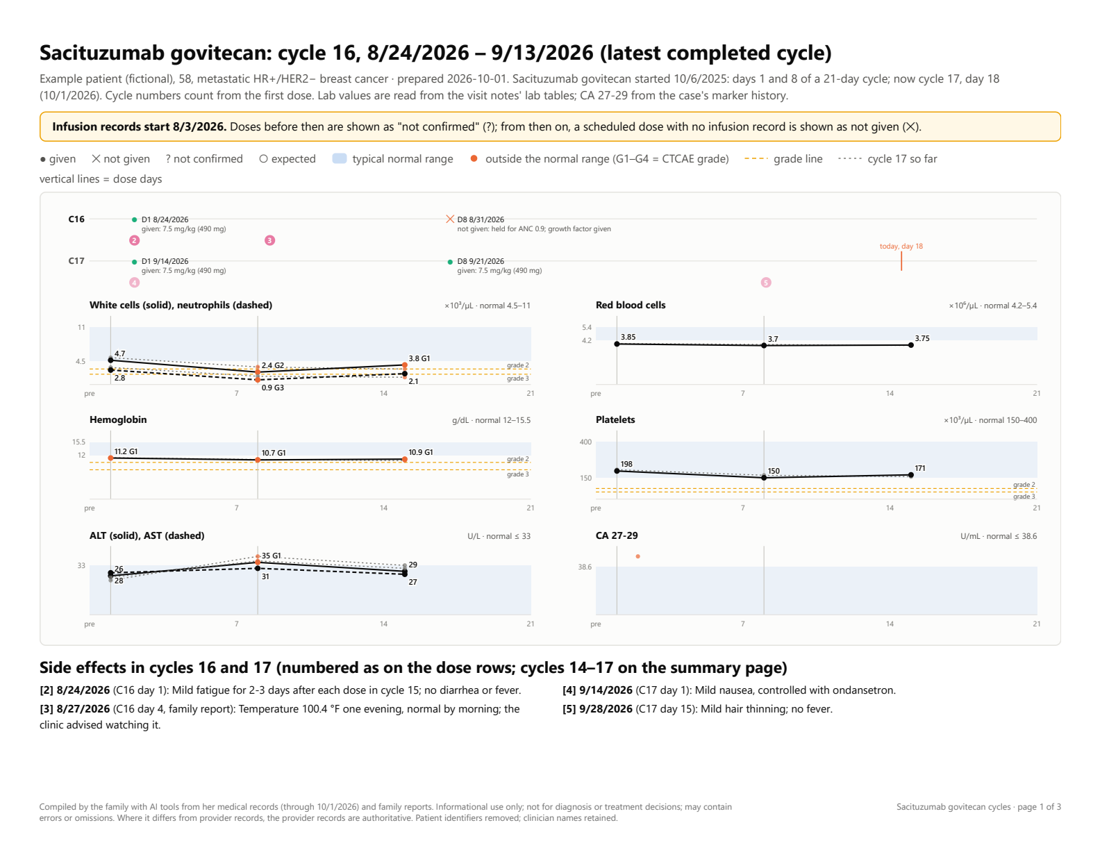
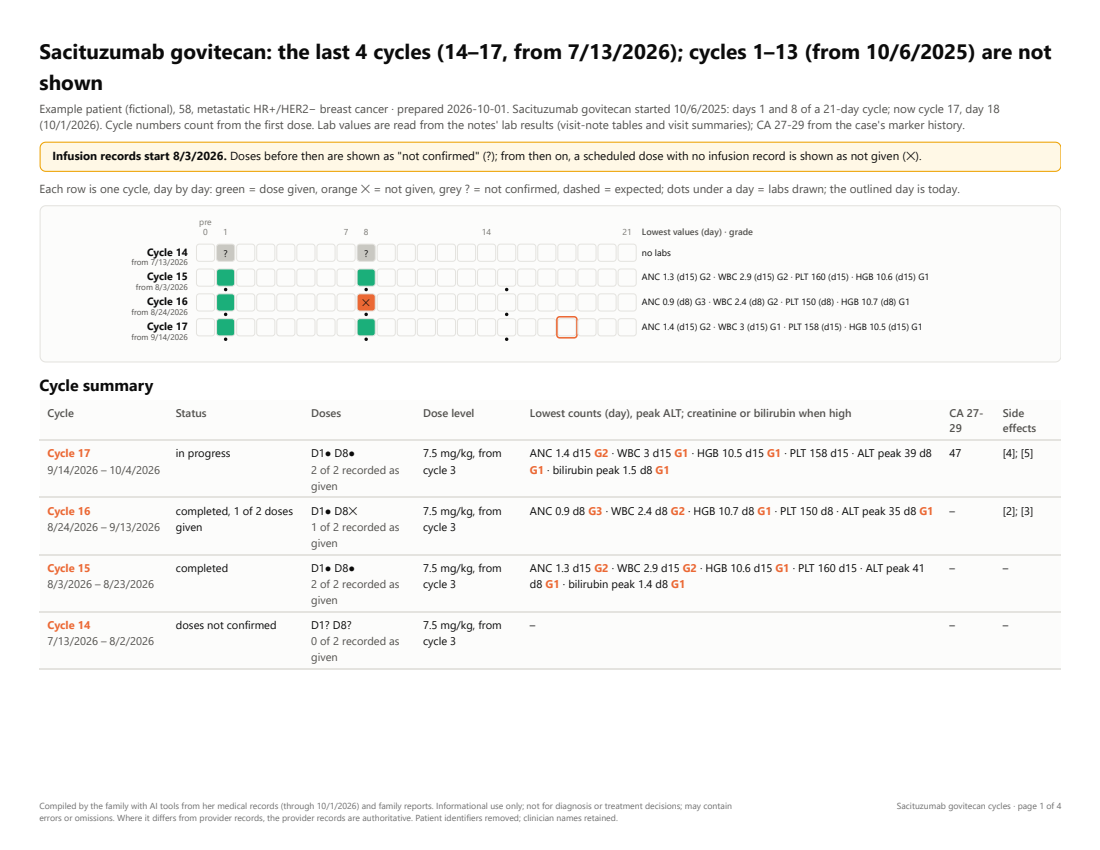
Cycles report: lead with the cycle overview; chart kidney, liver and nutrition tests
Page 1 is now the tracked cycles day by day with the cycle summary; the latest
completed cycle's detail follows. New tests: creatinine and total bilirubin
(CTCAE grades by multiples of the upper limit), albumin, calcium and MCV, the
last three charted around their normal range. Out-of-range values are marked
even without a CTCAE grade; the summary names creatinine or bilirubin only when
high. The example notes gain fictional chemistry; gallery images regenerated.

diff --git a/reports/cycles.py b/reports/cycles.py
@@ -31,10 +31,22 @@ TESTS = {
     "PLT": ("Platelets", "×10³/µL", 150, 400, ("low", 75, 50, 25), r"PLT\b", r"x 10\^3/uL"),
     "ALT": ("ALT (liver)", "U/L", 0, 33, ("x", 3, 5, 20), r"ALT/SGPT", r"U/L"),
     "AST": ("AST (liver)", "U/L", 0, 32, ("x", 3, 5, 20), r"AST/SGOT", r"U/L"),
+    # chemistry: kidney (a rare thrombotic microangiopathy on some chemotherapy shows first as rising creatinine with
+    # falling platelets; bone-strengthening infusions are dosed by kidney function), liver, nutrition, bone. Urine and
+    # ionized values are left out.
+    "CREAT": ("Creatinine (kidney)", "mg/dL", 0, 1.1, ("x", 1.5, 3, 6), r"Creatinine\b(?!,? *(?:urine|ur\b|random))", r"mg/dL"),
+    "BILI": ("Bilirubin, total (liver)", "mg/dL", 0, 1.2, ("x", 1.5, 3, 10),
+             r"(?:Bilirubin,? total|Total bilirubin|T\.? ?Bili(?:rubin)?\b)", r"mg/dL"),
+    "ALB": ("Albumin (nutrition)", "g/dL", 3.5, 5.2, ("low", 3.0, 2.0, None), r"Albumin\b(?!,? *urine)", r"g/dL"),
+    "CALC": ("Calcium", "mg/dL", 8.6, 10.3, None, r"Calcium\b(?!,? *ion)", r"mg/dL"),
+    "MCV": ("Red-cell size (MCV)", "fL", 80, 100, None, r"MCV\b", r"fL"),
 }
 for _k, _v in C.get("cycles_tests", {}).items():
     TESTS[_k] = tuple(_v[i] if i < len(_v) and _v[i] is not None else (TESTS.get(_k) or (None,) * 7)[i] for i in range(7))
-PANELS = [["WBC", "ANC"], ["RBC"], ["HGB"], ["PLT"], ["ALT", "AST"]]
+PANELS = [["WBC", "ANC"], ["PLT"], ["HGB"], ["ALB"], ["ALT", "AST"], ["BILI"], ["CREAT"]]   # page 2; the marker panel follows
+OVERLAYS = ["ANC", "WBC", "PLT", "HGB", "ALT", "BILI", "CREAT", "ALB", "CALC", "MCV"]       # page 3, cycle over cycle
+# tests whose values sit in a narrow band far from zero: their charts are scaled around the normal range, not from 0
+RANGE_AXIS = {"ALB", "CALC", "MCV"} | set(C.get("cycles_range_axis", []))
 SHORT = {"WBC": "White cells", "ANC": "Neutrophils", "ALT": "ALT", "AST": "AST"}   # names in two-series panel titles
 BASELINE_DAYS = 3   # a lab drawn up to this many days before a day 1 (with none on day 1) is that cycle's pre-dose value
 SHOW_CYCLES = 4     # cycles shown in the calendar, overlays, summary and side effects: the latest, ending with the current one
@@ -194,6 +206,19 @@ def axis(reg, W, L, R):
     return lambda day: L + (W - L - R) * day / reg.length
 
 
+def scale(key, lo, hi, vals):
+    """(bottom, top) of a chart's value axis: from 0 for counts and enzymes, around the normal range for RANGE_AXIS tests."""
+    if key in RANGE_AXIS:
+        span = hi - lo
+        return max(0, min([lo] + vals) - 0.35 * span), max([hi] + vals) + 0.25 * span
+    return 0, max([hi * 1.15] + [v * 1.12 for v in vals])
+
+
+def out_of_range(key, v):
+    lo, hi = TESTS[key][2], TESTS[key][3]
+    return v < lo or v > hi
+
+
 def panel(reg, c, cur, keys, data, W=600, H=128):
     """One small chart: the detail cycle's values (solid) and the cycle in progress (dashed), on a day-of-cycle axis."""
     L, R, T, B = 46, 14, 26, 22
@@ -201,8 +226,8 @@ def panel(reg, c, cur, keys, data, W=600, H=128):
     series = [(k, in_cycle(reg, c, data[k]), in_cycle(reg, cur, data[k]) if cur else []) for k in keys]
     vals = [v for _, a, b in series for _, v, _ in a + b]
     lo, hi = (0, C["tumor_marker"]["uln"]) if keys[0] == "CA" else (TESTS[keys[0]][2], TESTS[keys[0]][3])
-    vmax = max([hi * 1.15] + [v * 1.12 for v in vals])
-    y = lambda v: T + (H - T - B) * (1 - v / vmax)
+    vmin, vmax = scale(keys[0], lo, hi, vals)
+    y = lambda v: T + (H - T - B) * (1 - (v - vmin) / (vmax - vmin))
     s = []
     if keys[0] == "CA":
         label = C["tumor_marker"]["name"]
@@ -222,7 +247,7 @@ def panel(reg, c, cur, keys, data, W=600, H=128):
             if t is None:
                 continue
             tv = t if g[0] == "low" else t * hi
-            if tv < vmax:
+            if vmin < tv < vmax:
                 ty = y(tv) - 2 if gi == 2 else y(tv) + 8   # grade 2 above its line, grade 3 below: close lines stay readable
                 s.append(f'<line x1="{L}" x2="{W - R}" y1="{y(tv):.1f}" y2="{y(tv):.1f}" stroke="var(--series-4)" stroke-dasharray="4 3"/>'
                          f'<text x="{W - R - 2}" y="{ty:.1f}" text-anchor="end" font-size="8" fill="var(--text-secondary)">grade {gi}</text>')
@@ -245,7 +270,7 @@ def panel(reg, c, cur, keys, data, W=600, H=128):
             s.append(f'<path d="{path}" fill="none" stroke="{col}" stroke-width="{1.2 if faint else 1.8}"{style}/>')
             for dd, v, iso in p:
                 gr = grade(k, v) if k != "CA" else (1 if v > hi else 0)
-                fill = "var(--series-2)" if gr else col
+                fill = "var(--series-2)" if gr or (k != "CA" and out_of_range(k, v)) else col
                 s.append(f'<circle cx="{x(dd):.1f}" cy="{y(v):.1f}" r="{3.4 if not faint else 2.6}" fill="{fill}"{op}>'
                          f'<title>{e(k)} {v:g} on {common.fmt(iso)}</title></circle>')
                 if not faint:   # first series labelled above its points, the second below
@@ -346,8 +371,8 @@ def overlay(reg, key, data, W=600, H=150):
     x = axis(reg, W, L, R)
     lo, hi = TESTS[key][2], TESTS[key][3]
     lines = [(c, in_cycle(reg, c, data[key])) for c in reg.shown]
-    vmax = max([hi * 1.15] + [v * 1.12 for _, p in lines for _, v, _ in p])
-    y = lambda v: T + (H - T - B) * (1 - v / vmax)
+    vmin, vmax = scale(key, lo, hi, [v for _, p in lines for _, v, _ in p])
+    y = lambda v: T + (H - T - B) * (1 - (v - vmin) / (vmax - vmin))
     s = [f'<text x="{L}" y="13" font-size="12" font-weight="650" fill="var(--text-primary)">{e(TESTS[key][0])}</text>'
          f'<text x="{W - R}" y="13" text-anchor="end" font-size="10" fill="var(--text-secondary)">{e(TESTS[key][1])}</text>',
          f'<rect x="{L}" y="{y(hi):.1f}" width="{W - L - R}" height="{y(lo) - y(hi):.1f}" fill="var(--series-1)" opacity="0.08"/>',
@@ -408,6 +433,11 @@ def summary_table(reg, data, effects):
         if alt:
             dd, v = max(alt, key=lambda t: t[1])
             lows.append(f"ALT peak {v:g} d{dd}" + (f" <b>G{grade('ALT', v)}</b>" if grade("ALT", v) else ""))
+        for k, name in (("CREAT", "creatinine"), ("BILI", "bilirubin")):   # only when high: normal values would crowd the cell
+            p = [(dd, v) for dd, v, _ in in_cycle(reg, c, data.get(k, {}))]
+            if p and max(v for _, v in p) > TESTS[k][3]:
+                dd, v = max(p, key=lambda t: t[1])
+                lows.append(f"{name} peak {v:g} d{dd}" + (f" <b>G{grade(k, v)}</b>" if grade(k, v) else ""))
         ca = in_cycle(reg, c, data["CA"])
         ca_txt = " → ".join(f"{v:g}" for _, v, _ in ca) if ca else "–"
         se = "; ".join(f"[{i + 1}]" for i, (d, _, _) in enumerate(effects) if reg.cycle_of(D(d)) is c)
@@ -415,7 +445,7 @@ def summary_table(reg, data, effects):
         rows.append(f'<tr><td class="n"><b>Cycle {c.n}</b><br>{e(common.fmt(c.start.isoformat()))} – {e(common.fmt(c.last.isoformat()))}</td>'
                     f'<td>{e(c.status())}</td><td>{e(doses)}<br><span class="m">{given} of {len(ds)} recorded as given</span></td>'
                     f'<td>{e(dose)}</td><td>{" · ".join(lows) or "–"}</td><td>{e(ca_txt)}</td><td>{se or "–"}</td></tr>')
-    return ('<table class="sum"><thead><tr><th>Cycle</th><th>Status</th><th>Doses</th><th>Dose level</th><th>Lowest counts (day), peak ALT</th>'
+    return ('<table class="sum"><thead><tr><th>Cycle</th><th>Status</th><th>Doses</th><th>Dose level</th><th>Lowest counts (day), peak ALT; creatinine or bilirubin when high</th>'
             f'<th>{e(C["tumor_marker"]["name"])}</th><th>Side effects</th></tr></thead><tbody>{"".join(rows)}</tbody></table>')
 
 
@@ -593,39 +623,42 @@ def build(r, data):
               f'{so_far}'
               '<span>vertical lines = dose days</span></div>')
     panels = "".join(f'<div>{panel(reg, c, cur, keys, data)}</div>' for keys in PANELS + [["CA"]])
-    p1 = (f'<section class="p"><h1>{e(reg.drug)}: cycle {c.n}, {common.fmt(c.start.isoformat())} – {common.fmt(c.last.isoformat())}'
-          f'{" (latest completed cycle)" if cur else ""}</h1><p class="sub">{sub}</p>{warn}{legend}'
-          f'<div class="card">{dose_strip(reg, c, cur, effects)}<div class="grid2">{panels}</div></div>'
-          f'<h2>Side effects in cycles {c.n}{" and " + str(cur.n) if cur else ""} (numbered as on the dose rows; cycles '
-          f'{reg.shown[0].n}–{reg.shown[-1].n} on the summary page)</h2>{effects_list(reg, effects, c, only=(c, cur))}</section>')
-    overlays = "".join(f"<div>{overlay(reg, k, data)}</div>" for k in ("ANC", "WBC", "PLT", "HGB", "ALT", "RBC"))
-    p2 = (f'<section class="p"><h2>{window_title(reg)}</h2>'
+    # page 1 leads with the overview: every shown cycle day by day, then the summary table
+    p1 = (f'<section class="p"><h1>{e(reg.drug)}: {window_title(reg)[0].lower() + window_title(reg)[1:]}</h1><p class="sub">{sub}</p>{warn}'
           '<p class="sub">Each row is one cycle, day by day: green = dose given, orange ✕ = not given, grey ? = not confirmed, dashed = '
           'expected; dots under a day = labs drawn; the outlined day is today.</p>'
           f'<div class="card">{calendar(reg, data)}</div>'
-          f'<h2{" class=pb" if len(reg.shown) > 8 else ""}>The same tests, cycle over cycle</h2><p class="sub">Day of cycle on the axis, one line per cycle: whether the low point '
-          'deepens, or recovery by the next day 1 slows, from one cycle to the next.</p>'
-          f'<div class="card"><div class="grid2">{overlays}</div></div></section>')
+          f'<h2{" class=pb" if len(reg.shown) > 8 else ""}>Cycle summary</h2>{summary_table(reg, data, effects)}</section>')
+    p2 = (f'<section class="p"><h2>Cycle {c.n}, {common.fmt(c.start.isoformat())} – {common.fmt(c.last.isoformat())}'
+          f'{" (latest completed cycle)" if cur else ""}{f", beside cycle {cur.n} so far" if cur else ""}</h2>{legend}'
+          f'<div class="card">{dose_strip(reg, c, cur, effects)}<div class="grid2">{panels}</div></div>'
+          f'<h2>Side effects in cycles {c.n}{" and " + str(cur.n) if cur else ""} (numbered as on the dose rows; cycles '
+          f'{reg.shown[0].n}–{reg.shown[-1].n} on the last page)</h2>{effects_list(reg, effects, c, only=(c, cur))}</section>')
+    overlays = "".join(f"<div>{overlay(reg, k, data)}</div>" for k in OVERLAYS if k in TESTS)
+    p2b = ('<section class="p"><h2>The same tests, cycle over cycle</h2><p class="sub">Day of cycle on the axis, one line per cycle: whether the low point '
+           'deepens, or recovery by the next day 1 slows, from one cycle to the next.</p>'
+           f'<div class="card"><div class="grid2">{overlays}</div></div></section>')
     logged = family_log(reg)
     log_note = ("" if r.get("symptom_log") or logged else
                 '<p class="m">No family symptom log yet. Visit notes record side effects only on visit days, so the days between '
                 'doses, when counts are lowest, are mostly blank. Each build prints a log sheet for the cycle in progress '
                 '(<code>symptom_log_…_cycleN</code>, PDF and spreadsheet); a filled-in spreadsheet put with the records is read like '
                 'any other record, and its entries appear here as family reports.</p>')
-    p3 = (f'<section class="p"><h2>Cycle summary</h2>{summary_table(reg, data, effects)}'
-          f'<h2>Side effects, cycles {reg.shown[0].n}–{reg.shown[-1].n}</h2>'
+    p3 = (f'<section class="p"><h2>Side effects, cycles {reg.shown[0].n}–{reg.shown[-1].n}</h2>'
           f'{effects_list(reg, effects, c, only=reg.shown, family=log_summaries(reg, logged))}'
           f'<div class="cols"><div><h2>Expected next</h2><ul class="x">{expected_list(reg)}</ul>{log_note}</div>'
           '<div><h2>How to read this</h2><ul class="x">'
           '<li>Grades are the Common Terminology Criteria for Adverse Events (CTCAE v5.0) cut-offs, shown for orientation; the care '
           'team decides what they mean for treatment. Liver grades assume a normal baseline.</li>'
-          '<li>Normal ranges are typical adult values matched to the lab\'s own high/low flags; the lab\'s exact ranges may differ.</li>'
+          '<li>Normal ranges are typical adult values matched to the lab\'s own high/low flags; the lab\'s exact ranges may differ. '
+          'Albumin, calcium and red-cell size (MCV) are drawn on a scale around their normal range, not from zero; a value '
+          'outside the normal range is marked even where CTCAE has no grade for it.</li>'
           '<li>Lab values come from visit-note lab tables (complete rows only, so a date is never guessed) and visit summaries. '
           'Neutrophil counts are missing where no differential was reported.</li>'
           '<li>A lab drawn up to 3 days before day 1 counts as that cycle\'s pre-dose value ("pre").</li>'
           f'<li>{"A dose is given only when an infusion record shows it." if reg.has_records else "Until infusion records are added, no dose is shown as given."}</li>'
           '</ul></div></div></section>')
-    return reg, p1 + p2 + p3
+    return reg, p1 + p2 + p2b + p3
 
 
 def main():

diff --git a/tests/test_cycles.py b/tests/test_cycles.py
@@ -107,7 +107,7 @@ def test_example_report_builds(cy, tmp_path, monkeypatch):
     monkeypatch.setattr(cy.common, "print_pdf", lambda src, pdf, disclaimer=None: pdf.write_bytes(b"%PDF"))
     cy.main()
     page = (tmp_path / ".work" / "cycles_sacituzumab_govitecan.html").read_text(encoding="utf-8")
-    assert "cycle 16, 8/24/2026" in page and "Infusion records start 8/3/2026" in page
+    assert "Cycle 16, 8/24/2026" in page and page.index("Cycle summary") < page.index("Cycle 16, 8/24/2026") and "Infusion records start 8/3/2026" in page
     assert "held for ANC 0.9" in page and "family report" in page and "Cycle 18 day 1: 10/5/2026" in page
 
 
@@ -159,3 +159,28 @@ def test_family_log_sheets_are_read_from_the_notes(cy, tmp_path, monkeypatch):
     assert date == "2026-09-24" and text.startswith("Cycle 4, days 2–3 and 8 logged:")
     assert "highest temperature 100.6 °F (day 2); fever ≥100.4 °F on day 2" in text and "chills (day 2)" in text
     assert "fatigue 1–2/3 (highest day 2)" in text and "dose day 8: held: platelets low" in text and "called the clinic (day 2)" in text
+
+
+def test_chemistry_grades_and_row_patterns(cy):
+    """Creatinine and bilirubin grade by multiples of the upper limit, albumin by its low cut-offs; urine creatinine and
+    ionized calcium are not read as the blood values."""
+    import re
+    assert cy.grade("CREAT", 1.0) == 0 and cy.grade("CREAT", 1.5) == 1 and cy.grade("CREAT", 2.0) == 2 and cy.grade("CREAT", 4.0) == 3
+    assert cy.grade("BILI", 1.4) == 1 and cy.grade("BILI", 2.0) == 2 and cy.grade("BILI", 4.0) == 3
+    assert cy.grade("ALB", 3.6) == 0 and cy.grade("ALB", 3.4) == 1 and cy.grade("ALB", 2.9) == 2 and cy.grade("ALB", 1.9) == 3
+    assert cy.grade("CALC", 11.0) == 0 and cy.out_of_range("CALC", 11.0) and cy.out_of_range("MCV", 101)
+    m = lambda k, row: re.match(cy.TESTS[k][5] + r"[^\d]*?" + cy.TESTS[k][6], row)
+    assert m("CREAT", "Creatinine, mg/dL mg/dL ( 0.5 - 0.9 mg/dL )") and not m("CREAT", "Creatinine, urine mg/dL")
+    assert m("CALC", "Calcium mg/dL") and not m("CALC", "Calcium, ionized mg/dL")
+    assert m("BILI", "Bilirubin, total mg/dL") and m("BILI", "T. Bili mg/dL") and not m("BILI", "Bilirubin, direct mg/dL")
+    lo, hi = cy.scale("MCV", 80, 100, [93.0, 97.9])
+    assert 70 < lo < 80 and hi > 100   # a narrow-band test is charted around its range, not from 0
+    assert cy.scale("PLT", 150, 400, [160])[0] == 0
+
+
+def test_example_summary_names_high_bilirubin_only(cy, tmp_path, monkeypatch):
+    monkeypatch.setattr(cy.common, "print_pdf", lambda src, pdf, disclaimer=None: pdf.write_bytes(b"%PDF"))
+    cy.main()
+    page = (tmp_path / ".work" / "cycles_sacituzumab_govitecan.html").read_text(encoding="utf-8")
+    assert "bilirubin peak 1.5 d8" in page and "creatinine peak" not in page
+    assert "Red-cell size (MCV)" in page and "Albumin (nutrition)" in page

diff --git a/examples/make_notes.py b/examples/make_notes.py
@@ -105,6 +105,12 @@ VISITS = [
      144, 80, 1, ["Ondansetron Oral 8 mg every 8 hours as needed", "Loperamide Oral 2 mg as needed", "Omeprazole Oral 20 mg daily"]),
 ]
 
+# Weekly chemistry and red-cell size for the same draws (creatinine, total bilirubin, albumin, calcium, MCV): a mild
+# bilirubin rise after some doses, albumin drifting down, MCV creeping up, as the cycles report's charts show them.
+CHEM = {"2026-08-03": (0.82, 0.6, 3.9, 9.4, 93.1), "2026-08-10": (0.85, 1.4, 3.8, 9.2, 93.6), "2026-08-17": (0.88, 0.9, 3.7, 9.1, 94.0),
+        "2026-08-24": (0.84, 0.7, 3.8, 9.3, 94.4), "2026-08-31": (0.90, 1.1, 3.6, 9.0, 95.2), "2026-09-07": (0.86, 0.8, 3.6, 8.9, 95.8),
+        "2026-09-14": (0.83, 0.6, 3.7, 9.2, 96.3), "2026-09-21": (0.87, 1.5, 3.5, 9.0, 97.0), "2026-09-28": (0.89, 0.8, 3.4, 8.7, 97.9)}
+
 # Infusion visit notes: one per dose given (the cycle 16 day 8 dose was held, so it has none).
 INFUSIONS = [("ex00000013", "2026-08-03"), ("ex00000014", "2026-08-10"), ("ex00000015", "2026-08-24"),
              ("ex00000016", "2026-09-14"), ("ex00000017", "2026-09-21")]
@@ -118,6 +124,9 @@ def table(labs):
     rows = [("WBC x 10^3/uL", 0), ("Neu # (ANC) x 10^3/uL", 1), ("HGB g/dL", 2), ("PLT x 10^3/uL", 3)]
     if all(len(labs[d]) > 4 for d in dates):
         rows += [("RBC x 10^6/uL", 4), ("ALT/SGPT U/L", 5), ("AST/SGOT U/L", 6)]
+    if all(d in CHEM for d in dates):
+        labs = {d: tuple(labs[d]) + CHEM[d] for d in dates}
+        rows += [("MCV fL", 11), ("Creatinine mg/dL", 7), ("Bilirubin, total mg/dL", 8), ("Albumin g/dL", 9), ("Calcium mg/dL", 10)]
     return "\n".join([f"LabResults {' '.join(mdy(d) for d in dates)}"] + [f"{name} {' '.join(f'{labs[d][i]:g}' for d in dates)}" for name, i in rows])
 
 

diff --git a/reports/README.md b/reports/README.md
@@ -13,7 +13,7 @@ drugs, clinicians, prose) comes from the case file.
 | `treatments` | `treatments_table.py` | every cancer treatment by phase (landscape PDF) |
 | `pathology` | `pathology.py` | biomarker and genomic results beside the treatments they informed |
 | `blood_counts` | `blood_counts.py` + `labs.py` | WBC/ANC/hemoglobin/platelets from the notes' lab tables |
-| `cycles` | `cycles.py` + `labs.py` | each chemotherapy cycle: blood counts, liver tests and the marker by day of cycle, doses given or not, side effects, every cycle since the start (`python -m reports cycles --discover` proposes the regimens), and the family's symptom log sheet for the cycle in progress (`symptom_log.py`, PDF and spreadsheet) |
+| `cycles` | `cycles.py` + `labs.py` | each chemotherapy cycle: blood counts, liver and kidney tests, albumin, calcium, red-cell size (MCV) and the marker by day of cycle, doses given or not, side effects, every cycle since the start (`python -m reports cycles --discover` proposes the regimens), and the family's symptom log sheet for the cycle in progress (`symptom_log.py`, PDF and spreadsheet) |
 | `vitals` | `vitals.py` | weight, performance status and pain |
 | `medications` | `medications.py` | every drug on the visit medication lists over time |
 | `overview` | `overview.py` | body map of disease sites, treatment-line swimmer chart, hospital use |

diff --git a/docs/case-file.md b/docs/case-file.md
@@ -220,7 +220,12 @@ score, and other entries, with their days. Nothing needs copying into the case.
 
 Lab values come from the notes' lab tables, as for `blood_counts` (a value is used only from a complete row), and
 the marker from `tumor_marker`. `cycles_tests: {KEY: [label, unit, low, high, grades, row pattern, unit pattern]}`
-overrides a test's range or its row in another lab format (`null` keeps a field). Grades are CTCAE v5.0 cut-offs.
+overrides a test's range or its row in another lab format (`null` keeps a field); set the ranges the patient's lab
+prints, e.g. `CREAT: [null, null, null, 0.9]`. The tests: white cells, neutrophils, red cells, hemoglobin, platelets,
+ALT, AST, creatinine (`CREAT`), total bilirubin (`BILI`), albumin (`ALB`), calcium (`CALC`) and red-cell size (`MCV`).
+Grades are CTCAE v5.0 cut-offs; a value outside the normal range is marked even where CTCAE has no grade (calcium,
+MCV). Albumin, calcium and MCV are charted around their normal range rather than from zero (`cycles_range_axis` adds
+other tests to that list). The summary table names creatinine or bilirubin only in a cycle where it was high.
 
 ## Citations and the source audit (`citations.yaml`)
 

diff --git a/CHANGELOG.md b/CHANGELOG.md
@@ -10,6 +10,11 @@
   with side effects and a family symptom log. A scheduled dose counts as given only when an infusion record lists it.
   `python -m reports cycles --discover` proposes regimens and infusion records from the notes. The example case
   shows it with a held dose and a late cycle. It tracks the last four cycles (`show_cycles`).
+- **Cycles report, overview first:** page 1 is now every tracked cycle day by day with the cycle summary; the latest
+  completed cycle's detail follows. It now charts creatinine, total bilirubin (CTCAE grades by multiples of the upper
+  limit), albumin, calcium and red-cell size (MCV), the last three on a scale around their normal range. A value
+  outside the normal range is marked even where CTCAE has no grade. The summary names creatinine or bilirubin only in
+  a cycle where it was high. `cycles_tests` sets the patient's lab's own ranges.
 - **Cycles that start early:** a listed day 1 can start a cycle early (after a skipped dose); the cycle before ends
   the day before, and its later dose days are dropped.
 - **Family symptom log:** each cycles build writes a one-row-per-day log sheet for the cycle in progress, with dates

diff --git a/README.md b/README.md
@@ -14,7 +14,7 @@ assistant (Claude) help the family build reports from the de-identified notes:
 - a two-page emergency and travel summary (PDF and an editable Word file);
 - pathology and genomic test results alongside the treatments they informed;
 - blood counts, weight and performance status, and medication timelines;
-- chemotherapy cycles: blood counts and liver tests through each cycle, day by day, with the doses given or held, and a
+- chemotherapy cycles: blood counts, liver and kidney tests, albumin, calcium and red-cell size through each cycle, day by day, with the doses given or held, and a
   symptom log sheet for the family to fill in between visits;
 - a list of open questions and discrepancies to raise with the care team;
 - a source audit: every statement in the reports traced to the record note it comes from.

diff --git a/examples/case/notes/2026-08-24_oncology-follow-up_ex00000010.md b/examples/case/notes/2026-08-24_oncology-follow-up_ex00000010.md
@@ -72,6 +72,11 @@ PLT x 10^3/uL 198 160 172 205
 RBC x 10^6/uL 3.85 3.7 3.8 3.9
 ALT/SGPT U/L 26 36 41 24
 AST/SGOT U/L 28 33 38 27
+MCV fL 94.4 94 93.6 93.1
+Creatinine mg/dL 0.84 0.88 0.85 0.82
+Bilirubin, total mg/dL 0.7 0.9 1.4 0.6
+Albumin g/dL 3.8 3.7 3.8 3.9
+Calcium mg/dL 9.3 9.1 9.2 9.4
 Treatment Plan:
 Sacituzumab govitecan 10 mg/kg D1,8 Q21D Cycle Length: 21 Number Cycles: 99 Start: C1D1 on 10/06/2025 Assoc Dx: metastatic breast cancer
 Plan: see the history above.

diff --git a/examples/case/notes/2026-09-14_oncology-follow-up_ex00000011.md b/examples/case/notes/2026-09-14_oncology-follow-up_ex00000011.md
@@ -73,6 +73,11 @@ PLT x 10^3/uL 207 171 150 198
 RBC x 10^6/uL 3.9 3.75 3.7 3.85
 ALT/SGPT U/L 23 29 35 26
 AST/SGOT U/L 25 27 31 28
+MCV fL 96.3 95.8 95.2 94.4
+Creatinine mg/dL 0.83 0.86 0.9 0.84
+Bilirubin, total mg/dL 0.6 0.8 1.1 0.7
+Albumin g/dL 3.7 3.6 3.6 3.8
+Calcium mg/dL 9.2 8.9 9 9.3
 Treatment Plan:
 Sacituzumab govitecan 10 mg/kg D1,8 Q21D Cycle Length: 21 Number Cycles: 99 Start: C1D1 on 10/06/2025 Assoc Dx: metastatic breast cancer
 Plan: see the history above.

diff --git a/examples/case/notes/2026-09-28_oncology-follow-up_ex00000012.md b/examples/case/notes/2026-09-28_oncology-follow-up_ex00000012.md
@@ -73,6 +73,11 @@ PLT x 10^3/uL 158 168 207
 RBC x 10^6/uL 3.7 3.8 3.9
 ALT/SGPT U/L 33 39 23
 AST/SGOT U/L 31 36 25
+MCV fL 97.9 97 96.3
+Creatinine mg/dL 0.89 0.87 0.83
+Bilirubin, total mg/dL 0.8 1.5 0.6
+Albumin g/dL 3.4 3.5 3.7
+Calcium mg/dL 8.7 9 9.2
 Treatment Plan:
 Sacituzumab govitecan 10 mg/kg D1,8 Q21D Cycle Length: 21 Number Cycles: 99 Start: C1D1 on 10/06/2025 Assoc Dx: metastatic breast cancer
 Plan: see the history above.
